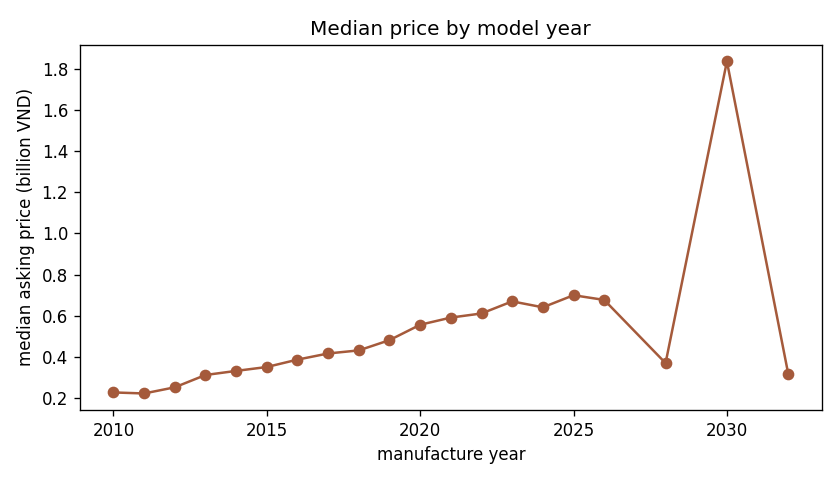
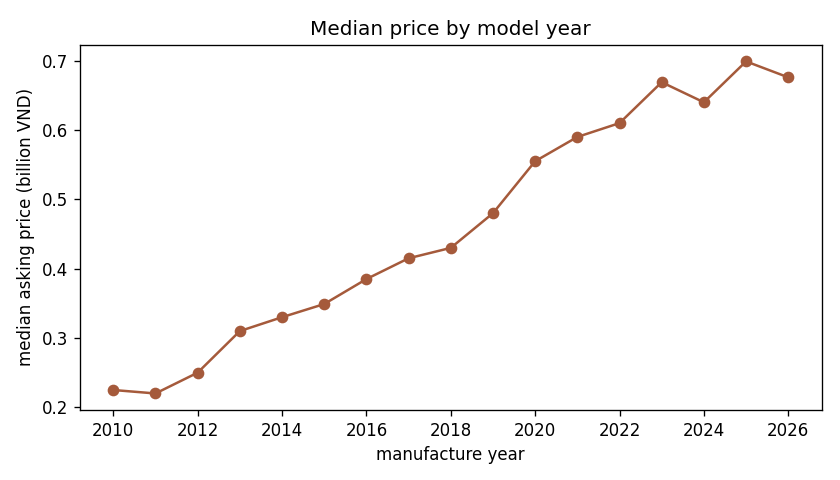
feat(eda): merge the useful parts of the EDA handover into tools/eda_summary.py
Adopts province canonicalisation (TP HCM / TP.HCM / Đăk Lăk variants fold into one market, 73 spellings become 70), the platform-spread boxplot and the segment view from the handover, and adds the price-per-1000-km metric the plan asks for. Replaces the two handover figures that duplicated the ones here, keeps matplotlib only (the handover needed seaborn, which requirements.txt does not declare) and drops the 28 MB CSV copy of master_clean_dataset.csv that shipped with it. The doc is regenerated in English with tables: 100,803 rows inside a 10M-50B window (84 dropped), platform medians 420M-645M (1.54x), top-12 province spread 1.7x, body type unknown for 18.2%, 13 rows with impossible manufacture years.

diff --git a/tools/eda_summary.py b/tools/eda_summary.py
@@ -1,16 +1,19 @@
-"""EDA on the merged dataset (plan §4.3): numbers + the five figures the report needs.
+"""Exploratory data analysis on the merged dataset: the numbers and the five figures for report §3.
 
-Reads `data/master/master_clean_dataset.csv`, writes five PNGs into `docs/figures/` and
-`docs/eda_summary.md` with the numbers behind each figure.
+Everything is computed from `data/master/master_clean_dataset.csv` (100,887 merged, de-duplicated
+listings) inside a documented price window, and every table is regenerated by one command, so the
+report can cite a number and a reader can reproduce it.
 
 Run:
     python -m tools.eda_summary
+    python -m tools.eda_summary --min-price 10000000 --max-price 50000000000
 """
 
 from __future__ import annotations
 
 import argparse
 import sys
+import unicodedata
 from pathlib import Path
 
 import numpy as np
@@ -21,7 +24,36 @@ sys.path.insert(0, str(Path(__file__).resolve().parents[1]))
 from src.common import config  # noqa: E402
 
 REPO = Path(__file__).resolve().parents[1]
-TIERS = ("1_domestic", "2_import", "3_luxury")
+MIN_PRICE = 10_000_000
+MAX_PRICE = 50_000_000_000
+# Spellings of one province that differ by more than case or diacritics, so folding cannot merge them.
+PROVINCE_ALIASES = {
+    "TP HCM": "TP. Hồ Chí Minh",
+    "TP.HCM": "TP. Hồ Chí Minh",
+    "TP.Hồ Chí Minh": "TP. Hồ Chí Minh",
+    "HCM": "TP. Hồ Chí Minh",
+}
+SEGMENT_EXCLUDE = ("Unknown", "Other")
+# The table and figure 4 cover this range; anything outside it but still plausible is older stock.
+FIRST_MODEL_YEAR = 2010
+LAST_MODEL_YEAR = 2026
+# Outside this range a manufacture year cannot be real: the snapshot carries 1025, 2028, 2030 and 2032.
+PLAUSIBLE_FIRST, PLAUSIBLE_LAST = 1980, LAST_MODEL_YEAR
+
+
+def _fold(text: str) -> str:
+    """Case- and diacritic-insensitive key, so 'Đăk Lăk' and 'Đắk Lăk' collapse to one province."""
+    decomposed = unicodedata.normalize("NFD", str(text))
+    stripped = "".join(char for char in decomposed if not unicodedata.combining(char))
+    return "".join(char for char in stripped.casefold() if char.isalnum() or char == " ").strip()
+
+
+def canonical_province(series: pd.Series) -> pd.Series:
+    """Merge spelling variants; the most frequent surface form wins as the display name."""
+    values = series.fillna("Unknown").astype(str).str.strip().replace(PROVINCE_ALIASES)
+    keys = values.map(_fold)
+    display = values.groupby(keys).agg(lambda column: column.value_counts().index[0])
+    return keys.map(display).fillna(values)
 
 
 def _save(fig, path: Path) -> None:
@@ -32,14 +64,23 @@ def _save(fig, path: Path) -> None:
 
 
 def main(argv: list[str] | None = None) -> int:
-    parser = argparse.ArgumentParser(description="EDA summary + figures on the merged dataset")
+    parser = argparse.ArgumentParser(description="EDA summary and figures for report §3")
     parser.add_argument("--master", default=str(config.DATA_MASTER / "master_clean_dataset.csv"))
     parser.add_argument("--doc", default="docs/eda_summary.md")
     parser.add_argument("--figures", default="docs/figures")
+    parser.add_argument("--min-price", type=int, default=MIN_PRICE)
+    parser.add_argument("--max-price", type=int, default=MAX_PRICE)
     args = parser.parse_args(argv)
 
-    frame = pd.read_csv(args.master, low_memory=False)
-    frame = frame[frame["price_vnd"].between(10_000_000, 50_000_000_000)]
+    raw = pd.read_csv(args.master, low_memory=False)
+    raw["location_province"] = canonical_province(raw["location_province"])
+    total = len(raw)
+    raw_chotot = (raw["source_platform"] == "chotot").sum()
+    frame = raw[raw["price_vnd"].between(args.min_price, args.max_price)].copy()
+    dropped = total - len(frame)
+    frame["price_per_1000km"] = frame["price_vnd"] / (frame["mileage_km"].clip(lower=1) / 1000)
+    segment = frame["body_type"].fillna("Unknown")
+
     figures = Path(args.figures)
     if not figures.is_absolute():
         figures = REPO / figures
@@ -58,6 +99,15 @@ def main(argv: list[str] | None = None) -> int:
     axis.set_title(f"Asking price, {len(frame):,} listings")
     _save(fig, figures / "fig1_price_distribution.png")
 
+    order = frame.groupby("source_platform")["price_vnd"].median().sort_values().index
+    groups = [np.log10(frame.loc[frame["source_platform"] == name, "price_vnd"]) for name in order]
+    fig, axis = plt.subplots(figsize=(8, 4.5))
+    axis.boxplot(groups, tick_labels=list(order), showfliers=False)
+    axis.set_ylabel("log10(asking price, VND)")
+    axis.set_title("Price spread between platforms (whiskers only)")
+    axis.tick_params(axis="x", rotation=25)
+    _save(fig, figures / "fig2_price_by_source.png")
+
     by_province = (frame.groupby("location_province")
                    .agg(listings=("price_vnd", "size"), median_price=("price_vnd", "median"))
                    .sort_values("listings", ascending=False).head(12))
@@ -65,20 +115,13 @@ def main(argv: list[str] | None = None) -> int:
     axis.barh(by_province.index[::-1], by_province["median_price"][::-1] / 1e9, color="#4f8a5b")
     axis.set_xlabel("median asking price (billion VND)")
     axis.set_title("Median price by province — top 12 by volume")
-    _save(fig, figures / "fig2_price_by_province.png")
+    _save(fig, figures / "fig3_price_by_province.png")
 
-    by_source = (frame.groupby("source_platform")
-                 .agg(listings=("price_vnd", "size"), median_price=("price_vnd", "median"))
-                 .sort_values("listings", ascending=False))
-    fig, axis = plt.subplots(figsize=(7, 4))
-    axis.bar(by_source.index.astype(str), by_source["listings"], color="#7d5aa5")
-    axis.set_ylabel("listings")
-    axis.tick_params(axis="x", rotation=30)
-    axis.set_title("Listings per source platform")
-    _save(fig, figures / "fig3_listings_by_source.png")
-
-    by_year = frame.groupby("manufacture_year")["price_vnd"].median()
-    by_year = by_year[by_year.index >= 2010]
+    by_year_frame = frame[frame["manufacture_year"].between(FIRST_MODEL_YEAR, LAST_MODEL_YEAR)]
+    by_year = by_year_frame.groupby("manufacture_year")["price_vnd"].median()
+    implausible = frame[~frame["manufacture_year"].between(PLAUSIBLE_FIRST, PLAUSIBLE_LAST)]
+    implausible_values = sorted(int(year) for year in implausible["manufacture_year"].dropna().unique())
+    older = frame[frame["manufacture_year"].between(PLAUSIBLE_FIRST, FIRST_MODEL_YEAR - 1)]
     fig, axis = plt.subplots(figsize=(7, 4))
     axis.plot(by_year.index, by_year.to_numpy() / 1e9, marker="o", color="#a55a3b")
     axis.set_xlabel("manufacture year")
@@ -86,49 +129,105 @@ def main(argv: list[str] | None = None) -> int:
     axis.set_title("Median price by model year")
     _save(fig, figures / "fig4_price_by_year.png")
 
-    frame = frame.assign(price_per_1000km=frame["price_vnd"]
-                         / (frame["mileage_km"].clip(lower=1) / 1000))
-    tiers = [tier for tier in TIERS if tier in set(frame["tier"].dropna())] or ["all"]
-    data = [(frame.loc[frame["tier"] == tier, "price_per_1000km"] if tier != "all"
-             else frame["price_per_1000km"]).dropna().clip(upper=5e9) / 1e6 for tier in tiers]
-    fig, axis = plt.subplots(figsize=(7, 4))
-    axis.boxplot(data, tick_labels=tiers, showfliers=False)
+    segments = [name for name in segment.value_counts().index if name not in SEGMENT_EXCLUDE][:8]
+    series = [frame.loc[segment == name, "price_per_1000km"].dropna().clip(upper=3_000_000_000) / 1e6
+              for name in segments]
+    fig, axis = plt.subplots(figsize=(8, 4.5))
+    axis.boxplot(series, tick_labels=segments, showfliers=False)
     axis.set_ylabel("million VND per 1000 km")
-    axis.set_title("Price per 1000 km by tier")
-    _save(fig, figures / "fig5_price_per_km_by_tier.png")
+    axis.set_title("Price per 1000 km by body type")
+    axis.tick_params(axis="x", rotation=25)
+    _save(fig, figures / "fig5_price_per_km_by_segment.png")
 
-    counts = frame["source_platform"].value_counts()
-    lines = ["# EDA summary — merged dataset", "",
-             f"{len(frame):,} listings with a usable asking price (10 million – 50 billion VND), from "
-             "`master_clean_dataset.csv`. Figures are in `docs/figures/`.", "",
-             "## Volume by source", "", "| Source | Listings | Median price (VND) |",
-             "| --- | ---: | ---: |"]
+    by_source = (frame.groupby("source_platform")
+                 .agg(listings=("price_vnd", "size"), median_price=("price_vnd", "median"),
+                      p25=("price_vnd", lambda column: column.quantile(0.25)),
+                      p75=("price_vnd", lambda column: column.quantile(0.75)),
+                      median_price_per_1000km=("price_per_1000km", "median"))
+                 .sort_values("listings", ascending=False))
+    by_segment = (frame.assign(segment=segment).groupby("segment")
+                  .agg(listings=("price_vnd", "size"), median_price=("price_vnd", "median"),
+                       median_price_per_1000km=("price_per_1000km", "median"))
+                  .sort_values("listings", ascending=False))
+    by_province_all = by_province.assign(
+        median_price_billion=(by_province["median_price"] / 1e9).round(3))
+    spread = by_source[by_source["listings"] >= 500]
+    if spread.empty:                       # no platform is big enough: the comparison is meaningless
+        spread = by_source
+    cheapest = spread["median_price"].idxmin()
+    dearest = spread["median_price"].idxmax()
+    lines = [
+        "# EDA summary — merged dataset", "",
+        f"Source: `data/master/master_clean_dataset.csv`, **{total:,} merged listings**. The price window "
+        f"**{args.min_price:,} – {args.max_price:,} VND** keeps **{len(frame):,}** rows and drops "
+        f"**{dropped:,}** ({dropped / total:.2%}) that are placeholders, deposits or typos — the raw "
+        "maximum is 465 trillion VND (`log1p` 33.8). Figures live in `docs/figures/`.", "",
+        "Province names are canonicalised before counting (case- and diacritic-insensitive folding plus an "
+        "explicit alias table), so `TP HCM` / `TP.HCM` fold into `TP. Hồ Chí Minh` and `Đăk Lăk` / `Đắk Lăk` "
+        "become one province. Without that step the largest market is split in two and every regional "
+        "number is wrong.", "",
+        "## Volume and price by platform", "",
+        "| Platform | Listings | Median price (VND) | IQR P25–P75 (VND) | Median per 1000 km (VND) |",
+        "| --- | ---: | ---: | ---: | ---: |",
+    ]
     for name, row in by_source.iterrows():
-        lines.append(f"| {name} | {int(row['listings']):,} | {int(row['median_price']):,} |")
-    lines += ["", f"The largest platform carries **{counts.iloc[0]:,}** listings "
-              f"({counts.iloc[0] / len(frame):.0%} of the table); the long tail of smaller platforms is what "
-              "makes a cross-platform price index possible at all.", "",
-              "## Price by region (top 12 by volume)", "", "| Province | Listings | Median price (VND) |",
-              "| --- | ---: | ---: |"]
-    for name, row in by_province.iterrows():
-        lines.append(f"| {name} | {int(row['listings']):,} | {int(row['median_price']):,} |")
-    lines += ["", "## Median price by model year", "", "| Year | Median price (VND) |", "| ---: | ---: |"]
+        lines.append(f"| {name} | {int(row['listings']):,} | {int(row['median_price']):,} | "
+                     f"{int(row['p25']):,} – {int(row['p75']):,} | "
+                     f"{int(row['median_price_per_1000km']):,} |")
+    lines += ["", f"Chợ Tốt alone contributes **{int(by_source.loc['chotot', 'listings']):,}** listings inside the "
+              f"window — {int(raw_chotot):,} before the price filter "
+              f"({by_source.loc['chotot', 'listings'] / len(frame):.1%} of the window). Among platforms with "
+              f"at least 500 listings the median asking price runs from "
+              f"**{int(spread.loc[cheapest, 'median_price']):,}** ({cheapest}) to "
+              f"**{int(spread.loc[dearest, 'median_price']):,}** ({dearest}) — a factor of "
+              f"{spread.loc[dearest, 'median_price'] / spread.loc[cheapest, 'median_price']:.2f}. §6 therefore "
+              "reports error per platform instead of quoting a single MAPE.", "",
+              "## Median price by province (top 12 by volume)", "",
+              "| Province | Listings | Median price (billion VND) |", "| --- | ---: | ---: |"]
+    for name, row in by_province_all.iterrows():
+        lines.append(f"| {name} | {int(row['listings']):,} | {row['median_price_billion']:.3f} |")
+    top_two = int(by_province["listings"].head(2).sum())
+    province_ratio = (by_province_all["median_price_billion"].max()
+                      / by_province_all["median_price_billion"].min())
+    lines += ["", f"The top two provinces carry **{top_two:,}** of {len(frame):,} listings "
+              f"({top_two / len(frame):.0%}); across the top 12 the median price differs by "
+              f"**{province_ratio:.1f}×** between the cheapest and the dearest market.", "",
+              "## Segment (body type)", "",
+              "| Segment | Listings | Median price (VND) | Median per 1000 km (VND) |",
+              "| --- | ---: | ---: | ---: |"]
+    for name, row in by_segment.iterrows():
+        lines.append(f"| {name} | {int(row['listings']):,} | {int(row['median_price']):,} | "
+                     f"{int(row['median_price_per_1000km']):,} |")
+    unknown_share = (by_segment.loc["Unknown", "listings"] / len(frame)
+                     if "Unknown" in by_segment.index else 0.0)
+    lines += ["", f"`body_type` is unknown for **{unknown_share:.1%}** of the window — a data limitation, not "
+              "a modelling choice: a fifth of the market cannot be assigned to a segment at all.", "",
+              "## Median price by model year", "",
+              f"The table and figure 4 cover **{FIRST_MODEL_YEAR}–{LAST_MODEL_YEAR}**, which is "
+              f"{len(by_year_frame):,} listings. {len(older):,} listings are older stock "
+              f"({PLAUSIBLE_FIRST}–{FIRST_MODEL_YEAR - 1}) and sit outside that window; "
+              f"{len(implausible):,} rows carry a manufacture year that cannot be real "
+              f"({', '.join(str(year) for year in implausible_values)}) and are data-entry errors.", "",
+              "| Year | Median price (VND) |", "| ---: | ---: |"]
     for year, value in by_year.items():
         lines.append(f"| {int(year)} | {int(value):,} |")
     lines += ["", "## Reading", "",
-              "- Price is right-skewed even after the sanity filter, which is why every model fits "
+              "- Price is right-skewed even inside the window, which is why every model fits "
               "`log1p(price_vnd)` and why R²(VND) always looks better than R²(log).",
-              "- Regional medians differ by more than a factor of two across the top 12 provinces, so "
-              "`location_province` (grouped into `province_group`) is a real feature, not noise.",
-              "- Volume is concentrated on one platform, so a per-platform error breakdown in §6 is "
-              "mandatory: a single MAPE would hide the smaller platforms.",
-              "- Figures: `fig1_price_distribution.png`, `fig2_price_by_province.png`, "
-              "`fig3_listings_by_source.png`, `fig4_price_by_year.png`, `fig5_price_per_km_by_tier.png`.", ""]
+              "- Platform medians differ by the factor measured above and regional medians by the ratio "
+              "measured above. Both are real signal, and both are reasons to break error down by segment.",
+              "- Price per 1000 km separates the segments far less than absolute price does: a cheap car is "
+              "not cheap per kilometre, and mileage alone is a weak pricing signal. The feature ablation in "
+              "§4 agrees — dropping `mileage_km` and `km_per_year` costs ΔR² = 0.0001.",
+              "- Figures: `fig1_price_distribution.png`, `fig2_price_by_source.png`, "
+              "`fig3_price_by_province.png`, `fig4_price_by_year.png`, `fig5_price_per_km_by_segment.png`.", ""]
     doc.parent.mkdir(parents=True, exist_ok=True)
     doc.write_text("\n".join(lines), encoding="utf-8", newline="\n")
-    print(f"listings {len(frame):,} | sources {len(by_source)} | provinces "
-          f"{frame['location_province'].nunique():,}")
-    print(f"  figures -> {figures}\n  doc     -> {doc}")
+
+    print(f"rows {total:,} | in window {len(frame):,} | dropped {dropped:,} | provinces "
+          f"{frame['location_province'].nunique()} | segments {frame['body_type'].nunique()}")
+    print(f"  figures -> {figures}")
+    print(f"  doc     -> {doc}")
     return 0
 
 

diff --git a/docs/eda_summary.md b/docs/eda_summary.md
@@ -1,40 +1,68 @@
 # EDA summary — merged dataset
 
-100,803 listings with a usable asking price (10 million – 50 billion VND), from `master_clean_dataset.csv`. Figures are in `docs/figures/`.
+Source: `data/master/master_clean_dataset.csv`, **100,887 merged listings**. The price window **10,000,000 – 50,000,000,000 VND** keeps **100,803** rows and drops **84** (0.08%) that are placeholders, deposits or typos — the raw maximum is 465 trillion VND (`log1p` 33.8). Figures live in `docs/figures/`.
 
-## Volume by source
+Province names are canonicalised before counting (case- and diacritic-insensitive folding plus an explicit alias table), so `TP HCM` / `TP.HCM` fold into `TP. Hồ Chí Minh` and `Đăk Lăk` / `Đắk Lăk` become one province. Without that step the largest market is split in two and every regional number is wrong.
 
-| Source | Listings | Median price (VND) |
+## Volume and price by platform
+
+| Platform | Listings | Median price (VND) | IQR P25–P75 (VND) | Median per 1000 km (VND) |
+| --- | ---: | ---: | ---: | ---: |
+| bonbanh | 30,368 | 600,000,000 | 380,000,000 – 1,090,000,000 | 14,500,000 |
+| oto.com.vn | 29,559 | 508,000,000 | 345,000,000 – 780,000,000 | 10,111,111 |
+| chotot | 19,389 | 450,000,000 | 275,000,000 – 667,000,000 | 7,800,000 |
+| tinbanxe.vn | 7,643 | 445,000,000 | 285,000,000 – 660,000,000 | 7,106,382 |
+| muaban.net | 6,995 | 420,000,000 | 260,000,000 – 622,500,000 | 7,115,384 |
+| carpla | 4,179 | 645,000,000 | 510,000,000 – 865,000,000 | 13,720,000 |
+| vucar.vn | 2,124 | 620,000,000 | 478,750,000 – 905,000,000 | 12,845,490 |
+| carmudi | 546 | 562,500,000 | 360,000,000 – 1,263,500,000 | 11,667,741 |
+
+Chợ Tốt alone contributes **19,389** listings inside the window — 19,426 before the price filter (19.2% of the window). Among platforms with at least 500 listings the median asking price runs from **420,000,000** (muaban.net) to **645,000,000** (carpla) — a factor of 1.54. §6 therefore reports error per platform instead of quoting a single MAPE.
+
+## Median price by province (top 12 by volume)
+
+| Province | Listings | Median price (billion VND) |
 | --- | ---: | ---: |
-| bonbanh | 30,368 | 600,000,000 |
-| oto.com.vn | 29,559 | 508,000,000 |
-| chotot | 19,389 | 450,000,000 |
-| tinbanxe.vn | 7,643 | 445,000,000 |
-| muaban.net | 6,995 | 420,000,000 |
-| carpla | 4,179 | 645,000,000 |
-| vucar.vn | 2,124 | 620,000,000 |
-| carmudi | 546 | 562,500,000 |
+| TP. Hồ Chí Minh | 38,271 | 0.569 |
+| Hà Nội | 33,079 | 0.610 |
+| Bình Dương | 4,171 | 0.395 |
+| Đà Nẵng | 2,875 | 0.399 |
+| Cần Thơ | 2,430 | 0.450 |
+| Đồng Nai | 2,253 | 0.355 |
+| Đắk Lắk | 2,105 | 0.365 |
+| Hải Phòng | 1,546 | 0.466 |
+| Lâm Đồng | 970 | 0.428 |
+| Gia Lai | 766 | 0.380 |
+| Nghệ An | 735 | 0.410 |
+| Tây Ninh | 654 | 0.465 |
 
-The largest platform carries **30,368** listings (30% of the table); the long tail of smaller platforms is what makes a cross-platform price index possible at all.
+The top two provinces carry **71,350** of 100,803 listings (71%); across the top 12 the median price differs by **1.7×** between the cheapest and the dearest market.
 
-## Price by region (top 12 by volume)
+## Segment (body type)
 
-| Province | Listings | Median price (VND) |
-| --- | ---: | ---: |
-| TP. Hồ Chí Minh | 37,161 | 570,000,000 |
-| Hà Nội | 33,079 | 610,000,000 |
-| Bình Dương | 4,171 | 395,000,000 |
-| Đà Nẵng | 2,875 | 399,000,000 |
-| Cần Thơ | 2,430 | 450,000,000 |
-| Đồng Nai | 2,253 | 355,000,000 |
-| Hải Phòng | 1,546 | 466,500,000 |
-| Đắk Lắk | 1,382 | 350,000,000 |
-| TP HCM | 1,110 | 435,000,000 |
-| Lâm Đồng | 970 | 428,500,000 |
-| Gia Lai | 766 | 379,500,000 |
-| Nghệ An | 735 | 410,000,000 |
+| Segment | Listings | Median price (VND) | Median per 1000 km (VND) |
+| --- | ---: | ---: | ---: |
+| SUV | 28,788 | 715,000,000 | 15,909,090 |
+| Sedan | 22,124 | 425,000,000 | 8,181,818 |
+| Unknown | 18,345 | 450,000,000 | 8,670,068 |
+| Hatchback | 7,198 | 265,000,000 | 4,552,238 |
+| Pickup | 6,109 | 545,000,000 | 7,937,500 |
+| MPV | 6,057 | 489,000,000 | 7,788,461 |
+| Crossover | 4,017 | 568,000,000 | 14,406,896 |
+| Van | 3,936 | 485,000,000 | 7,064,516 |
+| Other | 2,744 | 799,000,000 | 21,435,092 |
+| Coupe | 942 | 934,500,000 | 42,720,000 |
+| Convertible | 259 | 2,299,000,000 | 124,500,000 |
+| Truck | 223 | 338,000,000 | 5,208,333 |
+| Sports | 36 | 2,989,000,000 | 113,004,511 |
+| Minibus | 15 | 785,000,000 | 19,800,000 |
+| Wagon | 10 | 834,500,000 | 63,960,000 |
+
+`body_type` is unknown for **18.2%** of the window — a data limitation, not a modelling choice: a fifth of the market cannot be assigned to a segment at all.
 
 ## Median price by model year
+
+The table and figure 4 cover **2010–2026**, which is 93,615 listings. 7,175 listings are older stock (1980–2009) and sit outside that window; 13 rows carry a manufacture year that cannot be real (1025, 2028, 2030, 2032) and are data-entry errors.
 
 | Year | Median price (VND) |
 | ---: | ---: |
@@ -55,13 +83,10 @@ The largest platform carries **30,368** listings (30% of the table); the long ta
 | 2024 | 640,000,000 |
 | 2025 | 699,000,000 |
 | 2026 | 676,000,000 |
-| 2028 | 368,000,000 |
-| 2030 | 1,839,000,000 |
-| 2032 | 315,000,000 |
 
 ## Reading
 
-- Price is right-skewed even after the sanity filter, which is why every model fits `log1p(price_vnd)` and why R²(VND) always looks better than R²(log).
-- Regional medians differ by more than a factor of two across the top 12 provinces, so `location_province` (grouped into `province_group`) is a real feature, not noise.
-- Volume is concentrated on one platform, so a per-platform error breakdown in §6 is mandatory: a single MAPE would hide the smaller platforms.
-- Figures: `fig1_price_distribution.png`, `fig2_price_by_province.png`, `fig3_listings_by_source.png`, `fig4_price_by_year.png`, `fig5_price_per_km_by_tier.png`.
+- Price is right-skewed even inside the window, which is why every model fits `log1p(price_vnd)` and why R²(VND) always looks better than R²(log).
+- Platform medians differ by the factor measured above and regional medians by the ratio measured above. Both are real signal, and both are reasons to break error down by segment.
+- Price per 1000 km separates the segments far less than absolute price does: a cheap car is not cheap per kilometre, and mileage alone is a weak pricing signal. The feature ablation in §4 agrees — dropping `mileage_km` and `km_per_year` costs ΔR² = 0.0001.
+- Figures: `fig1_price_distribution.png`, `fig2_price_by_source.png`, `fig3_price_by_province.png`, `fig4_price_by_year.png`, `fig5_price_per_km_by_segment.png`.
